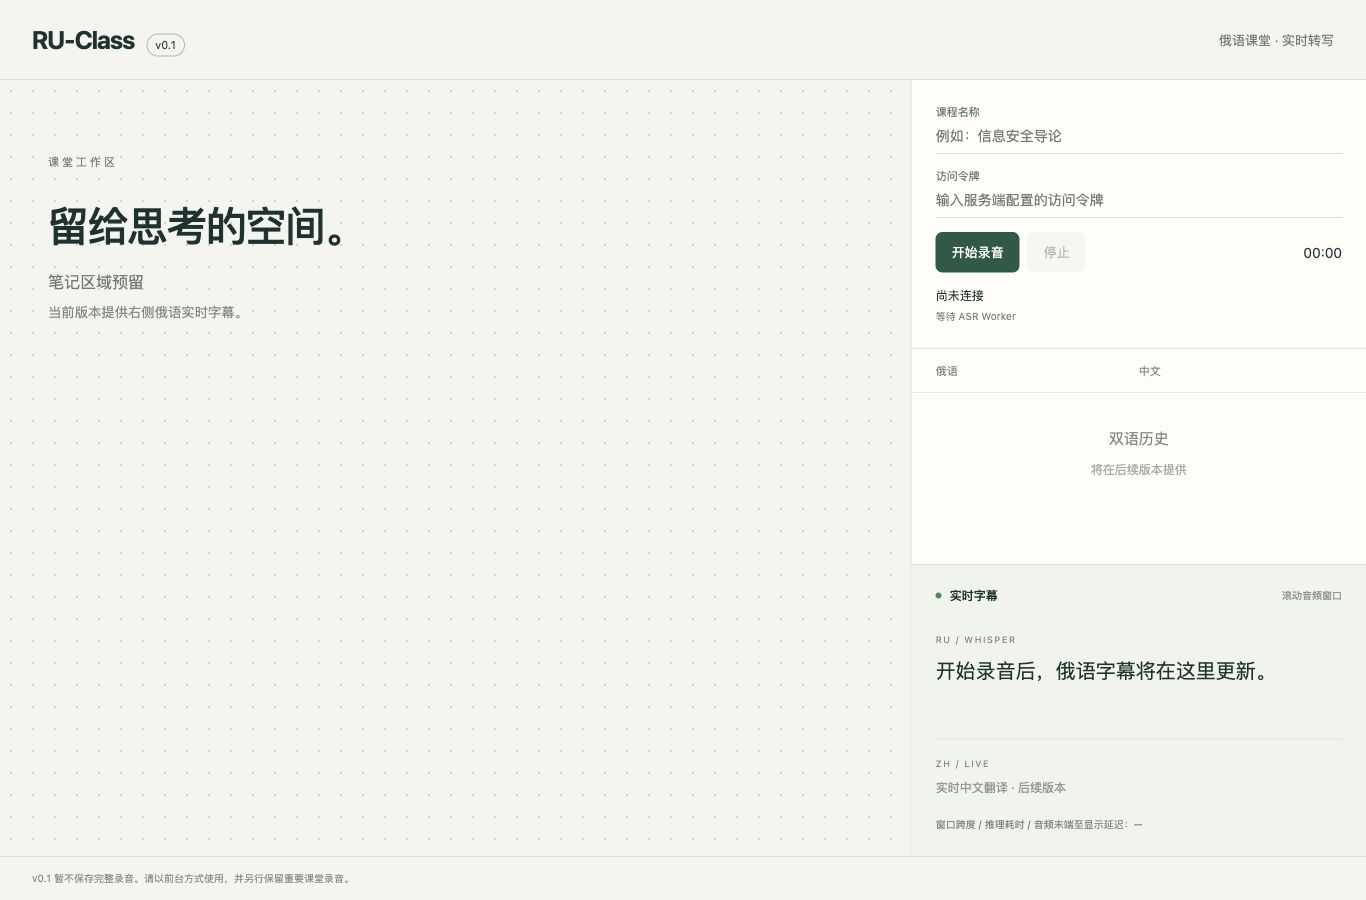
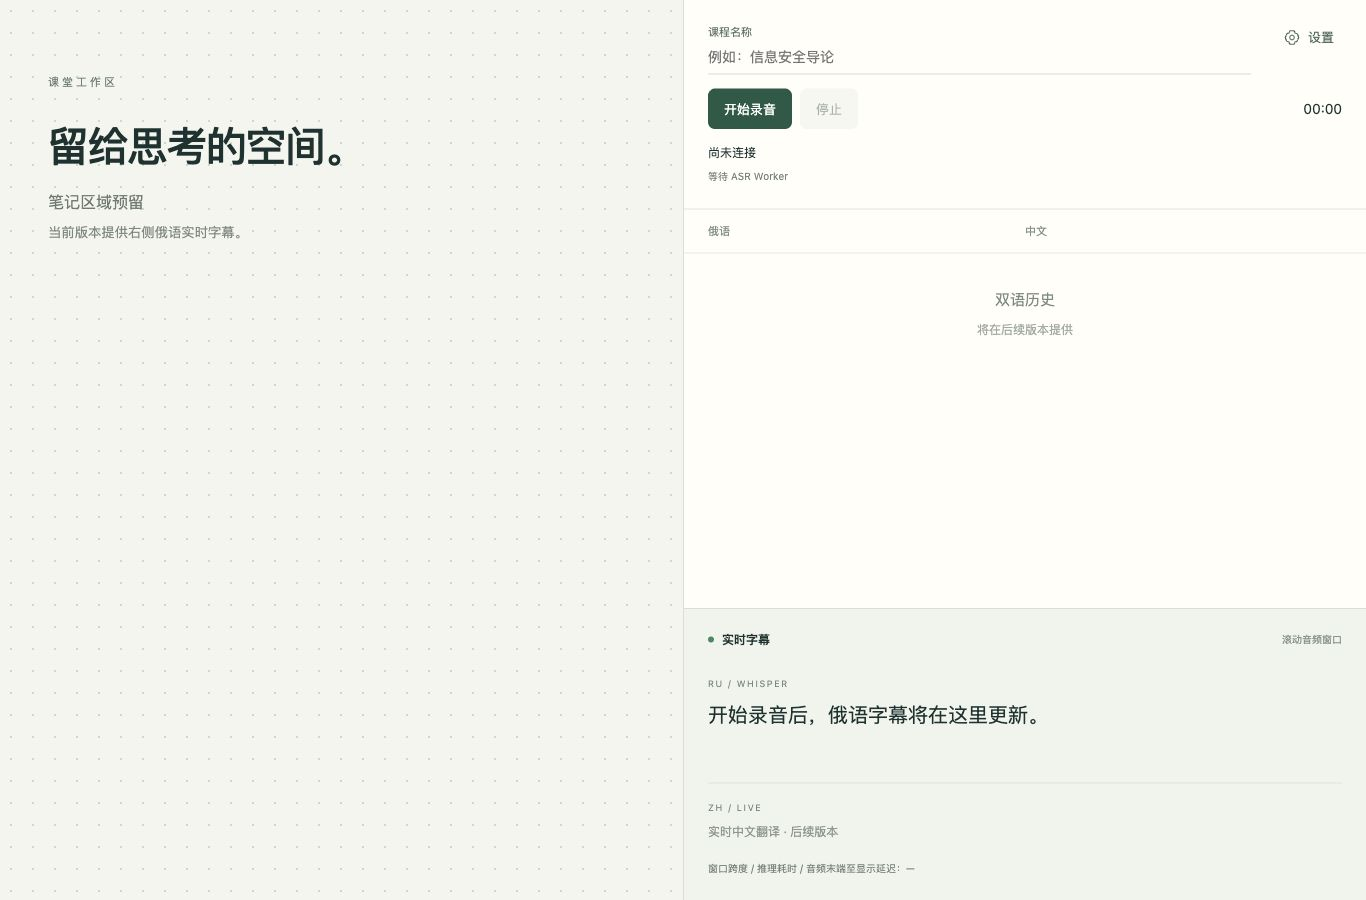
feat: use fullscreen split layout and gateway settings dialog

diff --git a/apps/web/style.css b/apps/web/style.css
@@ -1,3 +1,12 @@
-:root{font-family:Inter,-apple-system,BlinkMacSystemFont,"Segoe UI",sans-serif;color:#183330;background:#f5f5ef;font-synthesis:none}*{box-sizing:border-box}body{margin:0}header{height:80px;padding:20px 32px;border-bottom:1px solid #d8dfd7;display:flex;justify-content:space-between;align-items:center}header strong{font-size:25px;letter-spacing:-1px}.badge{font-size:11px;border:1px solid #a7bcb0;border-radius:20px;padding:4px 8px;margin-left:12px}header p{font-size:13px;color:#687c73}main{display:grid;grid-template-columns:2fr 1fr;min-height:calc(100dvh - 124px)}.notes{padding:70px 48px;background:radial-gradient(#cbd7cd 1px,transparent 1px);background-size:22px 22px}.eyebrow{font-size:11px;letter-spacing:3px;color:#687c73}h1{font-size:clamp(27px,3vw,46px);font-weight:500;letter-spacing:-1.5px;margin:28px 0 16px}.notes p{margin:0 0 8px;color:#6c7b70}.notes small{color:#7c897d}.transcription{border-left:1px solid #d8dfd7;display:flex;flex-direction:column;background:#fffef9;min-width:320px}.controls{padding:24px;border-bottom:1px solid #e0e5dc}label{font-size:11px;color:#60746a;display:block;margin-bottom:14px}input{width:100%;background:transparent;border:0;border-bottom:1px solid #d8dfd7;border-radius:0;padding:9px 0;color:#183330;font-size:14px;outline-offset:4px}.actions{display:flex;gap:8px;align-items:center}button{border:0;border-radius:7px;padding:11px 16px;background:#245946;color:#fff;font-size:13px;cursor:pointer}button#stop{background:#e9eee5;color:#365343}button:disabled{opacity:.45;cursor:default}output{margin-left:auto;font-variant-numeric:tabular-nums;font-size:14px}#status{font-size:12px;margin:15px 0 4px}#error{color:#ac3b28;font-size:12px;line-height:1.5;margin:4px 0}#worker,#latency{font-size:10px;color:#738177;line-height:1.6;display:block;overflow-wrap:anywhere}.history{flex:1;min-height:150px;overflow:auto}.history-title{display:grid;grid-template-columns:1fr 1fr;border-bottom:1px solid #e8ebe4;padding:14px 24px;color:#829084;font-size:11px}.empty{text-align:center;color:#a0aaa0;padding:35px 12px;font-size:12px}.empty span{font-size:15px;color:#7b8a7e}.live{padding:22px 24px 24px;border-top:1px solid #d8dfd7;background:#f0f4eb}.live-heading{font-size:12px;font-weight:600;display:flex;align-items:center;gap:8px;margin-bottom:24px}.live-heading small{font-size:10px;font-weight:400;color:#829084;margin-left:auto}.dot{width:6px;height:6px;background:#388961;border-radius:50%}.label{font-size:9px;letter-spacing:1.5px;color:#74887a}.ru p{font-size:20px;line-height:1.6;min-height:64px;max-height:210px;overflow:auto;overflow-wrap:anywhere;margin:8px 0 20px}.zh{border-top:1px solid #dce4d6;padding-top:12px}.zh p{color:#8c988b;font-size:12px;margin:9px 0 20px}footer{font-size:10px;color:#7d8b7e;padding:14px 32px;border-top:1px solid #d8dfd7}button:focus-visible,input:focus-visible{outline:2px solid #4e9475}@media(max-width:760px){header{padding:16px 20px;height:65px}.notes{display:none}main{grid-template-columns:1fr;min-height:calc(100dvh - 110px)}.transcription{border-left:0;min-width:0}.controls{padding:18px 20px}.history{min-height:90px}.empty{padding:16px}.live{position:sticky;bottom:0;padding:18px 20px}.live-heading{margin-bottom:16px}footer{padding:12px 20px}}
-@media(max-width:760px){.history{flex:0;min-height:0}.history-title{display:none}.empty{display:flex;justify-content:space-between;align-items:center;padding:12px 20px}.empty p{margin:0}.empty span{font-size:12px}.live{position:static;flex:1}}
-@media(max-width:760px){.history{flex:0 0 auto}}
+:root{font-family:Inter,-apple-system,BlinkMacSystemFont,"Segoe UI",sans-serif;color:#183330;background:#f5f5ef;font-synthesis:none}
+*{box-sizing:border-box}html,body{margin:0;width:100%;height:100%;overflow:hidden;overscroll-behavior:none}button,input{font:inherit}
+main{position:fixed;inset:0;display:grid;grid-template-columns:minmax(0,1fr) minmax(0,1fr);height:100vh;height:100dvh;overflow:hidden}
+.notes{min-width:0;overflow:hidden;padding:70px 48px;background:radial-gradient(#cbd7cd 1px,transparent 1px);background-size:22px 22px}.eyebrow{font-size:11px;letter-spacing:3px;color:#687c73}h1{font-size:clamp(27px,3vw,46px);font-weight:500;letter-spacing:-1.5px;margin:28px 0 16px}.notes p{margin:0 0 8px;color:#6c7b70}.notes small{color:#7c897d}
+.transcription{border-left:1px solid #d8dfd7;display:flex;flex-direction:column;background:#fffef9;min-width:0;min-height:0;overflow:hidden}.controls{flex:none;padding:24px;border-bottom:1px solid #e0e5dc}.control-heading{display:flex;align-items:flex-start;gap:24px}.control-heading label{flex:1;min-width:0}label{font-size:11px;color:#60746a;display:block;margin-bottom:14px}input{width:100%;background:transparent;border:0;border-bottom:1px solid #d8dfd7;border-radius:0;padding:9px 0;color:#183330;font-size:14px;outline-offset:4px}
+.actions{display:flex;gap:8px;align-items:center}button{border:0;border-radius:7px;padding:11px 16px;background:#245946;color:#fff;font-size:13px;cursor:pointer}button#stop{background:#e9eee5;color:#365343}button:disabled{opacity:.45;cursor:default}.settings-button{display:flex;align-items:center;gap:7px;flex:none;background:transparent;color:#526c5e;padding:8px;margin-top:-4px}.settings-button:hover,.close-button:hover{background:#e9eee5}output{margin-left:auto;font-variant-numeric:tabular-nums;font-size:14px}#status{font-size:12px;margin:15px 0 4px}#error{color:#ac3b28;font-size:12px;line-height:1.5;margin:4px 0;max-height:48px;overflow:auto}#worker,#latency{font-size:10px;color:#738177;line-height:1.6;display:block;overflow-wrap:anywhere}
+.history{flex:1;min-height:0;overflow:auto}.history-title{display:grid;grid-template-columns:1fr 1fr;border-bottom:1px solid #e8ebe4;padding:14px 24px;color:#829084;font-size:11px}.empty{text-align:center;color:#a0aaa0;padding:35px 12px;font-size:12px}.empty span{font-size:15px;color:#7b8a7e}
+.live{flex:0 1 auto;min-height:0;max-height:60%;overflow:hidden;padding:22px 24px 24px;border-top:1px solid #d8dfd7;background:#f0f4eb;display:flex;flex-direction:column}.live-heading{flex:none;font-size:12px;font-weight:600;display:flex;align-items:center;gap:8px;margin-bottom:24px}.live-heading small{font-size:10px;font-weight:400;color:#829084;margin-left:auto}.dot{width:6px;height:6px;background:#388961;border-radius:50%}.label{font-size:9px;letter-spacing:1.5px;color:#74887a}.ru{min-height:0;overflow:auto}.ru p{font-size:20px;line-height:1.6;min-height:64px;max-height:23dvh;overflow:auto;overflow-wrap:anywhere;margin:8px 0 20px}.zh{flex:none;border-top:1px solid #dce4d6;padding-top:12px}.zh p{color:#8c988b;font-size:12px;margin:9px 0 20px}#latency{flex:none}
+button:focus-visible,input:focus-visible{outline:2px solid #4e9475}
+dialog{width:min(440px,calc(100% - 32px));max-height:calc(100dvh - 32px);overflow:auto;border:1px solid #d8dfd7;border-radius:14px;padding:24px;color:#183330;background:#fffef9;box-shadow:0 24px 80px #18333026}dialog::backdrop{background:#18333040}.settings-heading{display:flex;align-items:center;justify-content:space-between;margin-bottom:24px}.settings-heading h2{font-size:20px;font-weight:500;margin:0}.close-button{background:transparent;color:#60746a;padding:4px 10px;font-size:25px}.settings-help{font-size:11px;line-height:1.7;color:#829084;margin:-4px 0 24px}.service-settings{border-top:1px solid #e0e5dc;padding-top:20px}.service-settings h3{font-size:12px;font-weight:500;margin:0 0 16px}.service-settings>div{display:flex;justify-content:space-between;gap:16px;margin:14px 0;font-size:12px}.service-settings small{font-size:10px;color:#829084;text-align:right}
+@media(max-width:760px){.notes{display:none}main{grid-template-columns:minmax(0,1fr)}.transcription{border-left:0}.controls{padding:18px 20px}.history-title{display:none}.empty{display:flex;justify-content:space-between;align-items:center;padding:12px 20px}.empty p{margin:0}.empty span{font-size:12px}.live{padding:18px 20px}.live-heading{margin-bottom:16px}}
+@media(max-height:600px){.controls{padding:12px 20px}.control-heading label{margin-bottom:8px}#status{margin-top:8px}.live{max-height:65%;padding:12px 20px}.live-heading{margin-bottom:8px}.ru p{min-height:28px;margin:4px 0 10px;font-size:18px}.zh{padding-top:6px}.zh p{margin:4px 0 8px}.empty{padding:12px}.history-title{padding:8px 20px}}

diff --git a/apps/web/index.html b/apps/web/index.html
@@ -1,8 +1,8 @@
 <!doctype html>
 <html lang="zh-CN"><head><meta charset="utf-8"><meta name="viewport" content="width=device-width,initial-scale=1"><title>RU-Class · v0.1</title><link rel="stylesheet" href="/style.css"></head>
-<body><header><div><strong>RU-Class</strong><span class="badge">v0.1</span></div><p>俄语课堂 · 实时转写</p></header>
+<body>
 <main><section class="notes"><span class="eyebrow">课堂工作区</span><h1>留给思考的空间。</h1><p>笔记区域预留</p><small>当前版本提供右侧俄语实时字幕。</small></section>
-<section class="transcription" aria-label="课堂转写"><div class="controls"><label>课程名称<input id="lesson" maxlength="120" placeholder="例如：信息安全导论"></label><label>访问令牌<input id="token" type="password" autocomplete="off" placeholder="输入服务端配置的访问令牌"></label><div class="actions"><button id="start">开始录音</button><button id="stop" disabled>停止</button><output id="duration">00:00</output></div><p id="status" role="status">尚未连接</p><p id="error" role="alert"></p><small id="worker">等待 ASR Worker</small></div>
+<section class="transcription" aria-label="课堂转写"><div class="controls"><div class="control-heading"><label>课程名称<input id="lesson" maxlength="120" placeholder="例如：信息安全导论"></label><button id="settings-open" class="settings-button" type="button" aria-label="设置" aria-haspopup="dialog"><svg viewBox="0 0 24 24" width="18" height="18" fill="none" stroke="currentColor" stroke-width="1.5" aria-hidden="true"><path d="M9 3h6l1 3 3 1 2 5-2 5-3 1-1 3H9l-1-3-3-1-2-5 2-5 3-1z"/><circle cx="12" cy="12" r="3"/></svg><span>设置</span></button></div><div class="actions"><button id="start">开始录音</button><button id="stop" disabled>停止</button><output id="duration">00:00</output></div><p id="status" role="status">尚未连接</p><p id="error" role="alert"></p><small id="worker">等待 ASR Worker</small></div>
 <section class="history"><div class="history-title"><span>俄语</span><span>中文</span></div><div class="empty"><span>双语历史</span><p>将在后续版本提供</p></div></section>
 <section class="live"><div class="live-heading"><span class="dot"></span>实时字幕 <small>滚动音频窗口</small></div><div class="ru"><span class="label">RU / WHISPER</span><p id="ru" lang="ru" aria-live="polite">开始录音后，俄语字幕将在这里更新。</p></div><div class="zh"><span class="label">ZH / LIVE</span><p>实时中文翻译 · 后续版本</p></div><small id="latency">窗口跨度 / 推理耗时 / 音频末端至显示延迟：—</small></section>
-</section></main><footer>v0.1 暂不保存完整录音。请以前台方式使用，并另行保留重要课堂录音。</footer><script type="module" src="/app.js"></script></body></html>
+</section></main><dialog id="settings" aria-labelledby="settings-title"><div class="settings-heading"><h2 id="settings-title">设置</h2><form method="dialog"><button class="close-button" aria-label="关闭设置">×</button></form></div><label>网关访问令牌<input id="token" type="password" autocomplete="off" placeholder="输入服务端配置的访问令牌"></label><p class="settings-help">用于连接课堂网关，仅保留在当前页面内存中。</p><div class="service-settings"><h3>模型服务规划</h3><div><span>语音识别</span><small>本地 Whisper · 无需模型 API 密钥</small></div><div><span>多模态模型</span><small>后续版本 · 服务端独立配置</small></div><div><span>语言模型</span><small>后续版本 · 服务端独立配置</small></div></div></dialog><script type="module" src="/app.js"></script></body></html>

diff --git a/apps/web/app.js b/apps/web/app.js
@@ -2,6 +2,7 @@ import { encodeFrame } from './audio.js';
 const $ = id => document.getElementById(id);
 let ws, stream, context, capture, source, sessionId, seq = 0, samples = 0, running = false, stopping = false;
 let sent = [], stopTimer, startTimer, flushResolve;
+$('settings-open').onclick = () => $('settings').showModal();
 const errors = {WORKER_OFFLINE:'ASR Worker 未上线，请启动 Worker 后重试。',WORKER_DISCONNECTED:'ASR Worker 已断开，录音已停止，本次缺失音频不能续传。',AUDIO_DISCONTINUITY:'检测到音频采样缺口，录音已停止，请重新开始。',SESSION_BUSY:'已有课堂正在录音，请先结束当前会话。',INFERENCE_FAILED:'Whisper 推理失败，录音已停止。',WORKER_UNAVAILABLE_OR_SLOW:'Worker 不可用或处理积压，录音已停止。'};
 function send(type, payload = {}) { ws.send(JSON.stringify({protocol_version:'0.1',type,session_id:type === 'auth' ? '' : sessionId || '',message_id:crypto.randomUUID(),payload})); }
 function controls(active) { $('start').disabled = active; $('stop').disabled = !running || stopping; $('token').disabled = active; }
@@ -18,7 +19,7 @@ async function fail(message) {
 function workerLabel(p) { return `${p.model || '未知模型'} · ${p.os || '未知系统'} · 后端：${p.backend || '未验证'}`; }
 $('start').onclick = async () => {
   if (!window.isSecureContext || !navigator.mediaDevices?.getUserMedia || !window.AudioWorkletNode) { await fail('录音需要 HTTPS（或 localhost）以及支持 AudioWorklet 的浏览器。'); return; }
-  if (!$('token').value) { $('error').textContent = '请输入访问令牌。'; return; }
+  if (!$('token').value) { $('error').textContent = '请在设置中输入网关访问令牌。'; $('settings').showModal(); return; }
   controls(true); $('error').textContent = ''; $('status').textContent = '请求麦克风权限…';
   sessionId = crypto.randomUUID(); seq = 0; samples = 0; sent = []; stopping = false;
   $('duration').textContent = '00:00'; $('ru').textContent = '等待俄语音频…'; $('latency').textContent = '等待第一条识别结果…';

diff --git a/docs/acceptance-v0.1.md b/docs/acceptance-v0.1.md
@@ -10,7 +10,7 @@ Date: 2026-10-16. Scope: PROJECT_SPEC.md revision 1.2 plus the user's M1-first i
 - Browser microphone permissions, AudioWorklet channel mixing and streaming low-pass resampling from actual source rate to 16 kHz mono PCM16; binary audio frames carry session, sequence, target sample position and original sample mapping.
 - Independent client/Worker tokens, exact browser origin check, session ownership, bounded message sizes, strict audio metadata and continuity validation, heartbeat and explicit failures. Local secrets remain ignored and readable only by the local user.
 - Worker-initiated connection to gateway, platform-neutral resident whisper-server HTTP adapter, actual startup inference probe, bounded overlapping windows and serial/coalesced inference. Stop flushes remaining input; cancelled sessions suppress stale results.
-- Actual 2:1 desktop page and narrow layout, replacement RU live window, duration/state/error indicators and separately labeled latency metrics. Chinese/history features remain explicit future-version placeholders.
+- Actual 1:1 fullscreen desktop page and narrow layout, replacement RU live window, duration/state/error indicators and separately labeled latency metrics. Chinese/history features remain explicit future-version placeholders.
 - macOS/VPS setup and troubleshooting, real-time replay driver, synthetic developer text fixture, tests, architecture decisions, development log, backend evidence and honest acceptance limits. No production service was modified.
 
 ## Verification
@@ -54,3 +54,7 @@ Follow [hardware-validation.md](hardware-validation.md) at the later M4 stage. R
 Only the newest overlapping RU window is displayed; no full transcript archive or stable LocalAgreement exists. Slow inference coalesces pending work and can leave earlier audio unrecognized; it bounds memory and keeps current input. Window ranges are not word alignment. No permanent classroom recording, browser reconnect/recovery, translation, committed bilingual history, sentence playback, ZIP archive or AI notes was implemented. v0.1 must not be the only copy of important classroom audio. Later versions require explicit user direction.
 
 Implementation source baselines: main `d07280d4a8f51ba93907388f90be1ac7f0426a4c`, M1 browser lifecycle refinement `8a3be3715ced8013d6a23c9d3fcf2500ac3ef414`; Worker core `0134b428f080e24a35bcc7dd3b8eafb6c19d8f2a`. Subsequent commits record evidence. Git history is local; no GitHub push, release tag or production deployment was performed.
+
+UI revision 2026-10-16: fixed viewport, equal desktop columns, no document scrolling/top/bottom bars; gateway token moved into Settings. This UI change leaves audio and inference protocol unchanged. Layout checks are recorded in the development log.
+
+UI revision checks passed: 1366×900, 390×844 and 900×400 document heights matched viewport heights. Desktop widths were 683/683. Settings open/close and missing-token redirect were checked in the actual browser; main regression 12/12, typecheck and build passed. No new model integration or key storage was added.

diff --git a/docs/development-log.md b/docs/development-log.md
@@ -27,3 +27,9 @@ The actual page was checked without granting microphone access. M4/Metal and fiv
 The user explicitly selected M1 development now and M4 formal acceptance later. This is recorded in PROJECT_SPEC section 16 (main), both AGENTS agreements and decisions. The browser now surfaces muted/ended input and rejects a dead track at session start; actual shipped JS lifecycle is covered by simulated capture/stop/disconnection/mute tests. Main suite increased from 9 to 12 passing tests; Worker remains 6 passing tests. Both builds/typechecks passed.
 
 Built official whisper.cpp 1.9.5-dev at 0c7be696371069e0baa2515ed7aa08d5a5473aa6 with Metal on Apple M1 / 8 GB. The public multilingual small model passed its publisher SHA-256 check. Actual startup logs show MTL0/Apple M1; only redacted evidence is committed. A real 101.164625-second locally synthesized Russian WAV was paced through the real loopback gateway, Worker and resident engine: 506 frames, 101 results, captions before stop and successful stop handshake. Mean HTTP inference 763.2 ms/p95 852.9 ms; replay end-to-result mean 771.9 ms/p95 863.9 ms, excluding microphone/browser buffering/rendering. Audio/raw logs and local distinct random tokens are ignored, not committed. See m1-development.md and m1-replay-metrics.json. No M4, five-minute natural speech or production deployment claim is made.
+
+### Fullscreen layout and settings · 2026-10-16
+
+Changed desktop layout to 1:1 and fixed 100dvh with no document scrolling. Removed visible header/footer; recording limitations remain documented. Added an accessible native Settings dialog, moving the existing gateway token there while preserving page-memory-only handling and recording-time input locking. Three model-provider planning states are read-only; no future credentials or model integrations were added. See credentials-plan.md.
+
+UI validation: main regression 12/12 passed; TypeScript and build passed. Actual browser measured desktop 1366×900 with two 683×900 columns and document/body height 900; narrow 390×844 had document/body height 844 and live panel ending at 844. Short landscape 900×400 had document height 400 with Settings open; dialog stayed within viewport. Verified Settings open/close and missing-token auto-open. No console warnings/errors observed. No audio/inference code changed or performance benchmark repeated. New clean desktop/narrow/settings screenshots are retained in main docs/screenshots.

diff --git a/docs/credentials-plan.md b/docs/credentials-plan.md
@@ -1,0 +1,15 @@
+# Credential boundaries and model configuration plan
+
+2026-10-16. This is planning only; v0.1 implements current gateway/Worker authentication.
+
+| Purpose | Current state | Location |
+| --- | --- | --- |
+| Gateway access: CLIENT_TOKEN | Implemented, entered in top-right Settings | Gateway environment and current page memory; no browser storage |
+| Worker identity: WORKER_TOKEN | Implemented, distinct from client access | Gateway and Worker environments; never exposed in browser |
+| Speech provider | Local Whisper needs no model API key | Future remote ASR configuration, if authorized, belongs on server |
+| Multimodal provider | Planned, not connected | Future independent server-side provider/URL/model/key configuration |
+| Language provider | Planned, not connected | Future independent server-side provider/URL/model/key configuration |
+
+Reserve three logical model configuration groups: ASR, multimodal and language. Three groups do not require three nonempty keys: local ASR needs none; a vendor may permit one credential across model types. Keep slots independent so providers and keys can change independently. Never reuse gateway/Worker tokens as vendor API keys.
+
+Settings contains the current gateway input and read-only model planning states. No future model secrets are accepted, stored, transmitted or validated. Future model credentials remain on the backend, with status only returned to the browser. No provider is selected or integrated by this plan.

diff --git a/README.md b/README.md
@@ -1,6 +1,6 @@
 # RU-Class · v0.1
 
-俄语课堂实时字幕原型。左侧 2/3 预留笔记区，右下显示真实 Whisper 滚动窗口字幕、录音时间和延迟指标；双语历史和中文翻译标注为后续版本。**v0.1 不保存完整录音，不适合作为重要课堂的唯一录音。**
+俄语课堂实时字幕原型。左侧 1/2 预留笔记区，右下显示真实 Whisper 滚动窗口字幕、录音时间和延迟指标；双语历史和中文翻译标注为后续版本。**v0.1 不保存完整录音，不适合作为重要课堂的唯一录音。**
 
 浏览器 AudioWorklet → Node.js 网关 → 主动出站连接的 Node.js Worker → 常驻 whisper.cpp `whisper-server`。跨平台架构，当前在 M1 / 8 GB 上开发，small/Metal 的真实联调已通过；Mac mini M4 留待后期正式验收。当前验证事实见 [报告](docs/acceptance-v0.1.md)。其他操作系统尚未由作者验证，欢迎自行部署并反馈。
 
@@ -47,3 +47,5 @@ npm run build
 ![v0.1 桌面页面；未连接 Worker](docs/screenshots/desktop-v0.1.jpg)
 
 M1 实测方法、模型版本和延迟数据见 [M1 development](docs/m1-development.md)，M4 后期流程见 [hardware validation](docs/hardware-validation.md)。
+
+界面固定满屏，桌面左右各半，无顶栏/底栏；访问令牌从右上角「设置」填写。模型凭证规划见 [credentials plan](docs/credentials-plan.md)。

diff --git a/PROJECT_SPEC.md b/PROJECT_SPEC.md
@@ -313,3 +313,10 @@ lesson-YYYY-MM-DD.zip
 - 当前先在 **MacBook Air M1 / 8 GB** 上开发和真实链路联调；**Mac mini M4 的正式验收安排在后期**。M4 尚未验收不阻塞当前 M1 开发。
 - M1 的真实引擎结果、合成俄语重放、模拟测试和 M4 正式验收分别记录，不将任何一项冒充另一项。
 - 当前仍只开发 v0.1，后续版本范围及生产部署授权规则不变。
+
+## 17. 用户界面与凭证规划补充 · 2026-10-16
+
+- 页面固定占满视口（100% 高度），页面本身不能滚动；桌面左右各 1/2。窄屏保留单列，字幕保持可见；长历史及字幕只在各自容器内滚动。
+- 移除可见顶栏品牌/版本/副标题及底栏提示，版本限制继续保留在文档中。
+- 右上角增加设置按钮，将网关访问令牌移入设置弹窗，仅保存在页面内存。
+- 按语音识别、多模态、语言模型三类规划服务配置；本轮只展示规划状态，不开发新模型接入。本地 Whisper 不需要模型 API 密钥。未来模型密钥保存在服务端，与 CLIENT_TOKEN / WORKER_TOKEN 应用认证分开。

diff --git a/docs/architecture.md b/docs/architecture.md
@@ -19,7 +19,7 @@ flowchart LR
 | ru-class / `apps/web/audio.js` | Portable streaming resampler and binary PCM encoder; original-to-16 kHz sample mapping |
 | ru-class / `capture-worklet.js` | Mix channels, retain filter context, send 200 ms frames, flush tail |
 | ru-class / `app.js` | User permission, session lifecycle, bounded socket backlog, capture errors, replacement subtitles and local-clock latency estimate |
-| ru-class / `index.html`, `style.css` | 2:1 landscape layout, narrow-screen layout, truthful later-version placeholders |
+| ru-class / `index.html`, `style.css` | 1:1 fullscreen viewport layout, narrow-screen layout, truthful later-version placeholders |
 | ru-class / `apps/server/src/gateway.ts` | Same-origin HTTP assets, independent token authentication, one-session ownership, metadata validation, WS routing and liveness |
 | both / `protocol.ts` | Version 0.1 types, binary encoding/validation, strict sequence and sample continuity |
 | ru-class-asr / `audio-window.ts` | At most one bounded PCM ring-equivalent buffer, audio sample ranges, PCM WAV header |

diff --git a/docs/decisions.md b/docs/decisions.md
@@ -12,3 +12,5 @@
 - Platform statements distinguish architecture from validation. Automated tests may run on any supported Node environment; real M4/Metal + foreground browser acceptance remains separate.
 
 - User implementation clarification (2026-10-16): use the current M1 / 8 GB machine for development and real engine integration now. Mac mini M4 formal acceptance is intentionally deferred; it does not block M1 development. Record M1 results separately and retain the v0.1-only scope.
+
+- UI clarification (2026-10-16): fixed viewport with no document scrolling; equal desktop columns; visible top/bottom bars removed. Gateway access moves into a top-right native Settings dialog. Content can scroll only inside its own panel. credentials-plan.md reserves three model configuration groups without adding model integrations.
